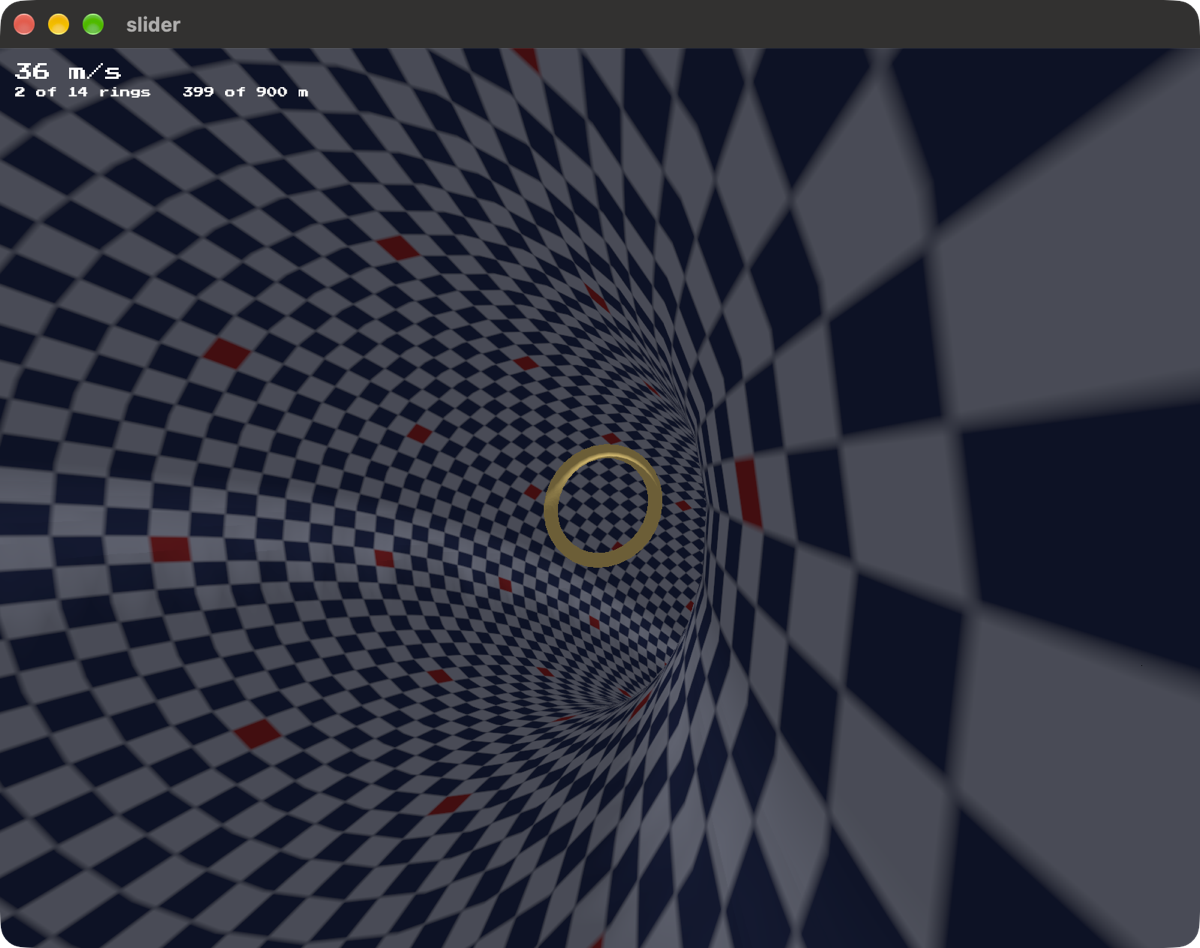
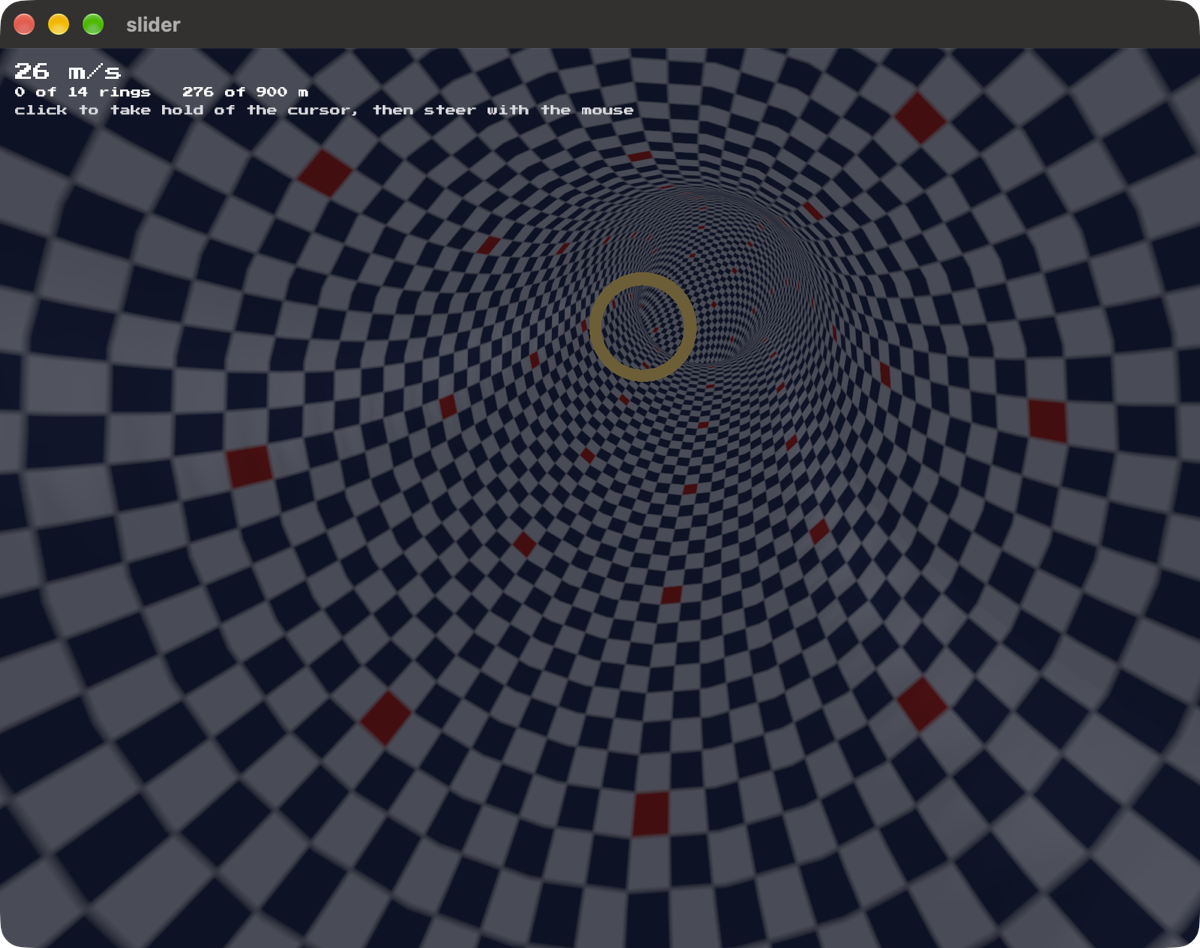
Fly in before the camera looks
Takes --screenshot, which flies two hundred and seventy five metres on the first frame and holds there, so the tunnel is bending and a ring is hanging ahead.

All of it on one frame rather than over twelve real seconds, because the shutter is on a timer. Ring n sits at (n + 1) of fifteen along the nine hundred metres, so stopping anywhere else puts one either just behind or a long way ahead: three seconds was a checkered pipe, eleven was three metres past the fourth ring looking at nothing.

diff --git a/src/slider_game.rs b/src/slider_game.rs
@@ -33,11 +33,33 @@ pub struct SliderGame {
     tube: Option<MeshId>,
     ring: Option<MeshId>,
     checker: Option<TextureId>,
+    /// Whether this run is only here to be photographed, and how long it has
+    /// been flying. See `refresh-screenshots` in the project above.
+    ///
+    /// The opening frame is the mouth of the tunnel, straight and empty. The
+    /// picture wants to be inside it, far enough in for the tunnel to be
+    /// bending and for a ring to be hanging in the middle distance.
+    staged: bool,
+    flown: f32,
 }
 
 impl SliderGame {
+    /// How far in the staged shot is taken, in seconds of flying.
+    ///
+    /// Ring n sits at (n + 1) of fifteen along the nine hundred metres, so
+    /// stopping anywhere puts one either just behind or a long way ahead.
+    /// Three seconds was seventy metres, inside the tunnel and short of the
+    /// first bend. Eleven was two hundred and forty six, which is three metres
+    /// past the fourth ring and looking at nothing.
+    ///
+    /// This is about two hundred and seventy five: the tunnel is bending and
+    /// the ring at three hundred is hanging ahead.
+    const FLOWN_FOR: f32 = 12.3;
+
     pub fn new() -> Self {
         Self {
+            staged: crate::staged(),
+            flown: 0.0,
             run: Run::new(),
             ship: Ship::new(),
             input: Input::new(),
@@ -179,7 +201,24 @@ impl Game for SliderGame {
         text_renderer: &mut TextRenderer,
         _sound_system: &SoundSystem,
     ) {
-        let dt = dt.min(MAX_DELTA_TIME);
+        let mut dt = dt.min(MAX_DELTA_TIME);
+
+        // flies itself in far enough for the tunnel to be bending and a ring
+        // to be hanging ahead, then holds still by having no more time pass
+        //
+        // All of it on the first frame rather than over eleven real seconds,
+        // because the shutter is on a timer and will not wait for the view.
+        if self.staged {
+            if self.flown == 0.0 {
+                let step = 1.0 / 60.0;
+                while self.flown < Self::FLOWN_FOR && self.run.is_flying() {
+                    let was = self.ship.update(self.input.steer, step);
+                    self.run.tick(step, was, &mut self.ship);
+                    self.flown += step;
+                }
+            }
+            dt = 0.0;
+        }
 
         if self.input.toggle_cursor {
             self.want_cursor_locked = !self.cursor_locked;

diff --git a/src/main.rs b/src/main.rs
@@ -9,6 +9,12 @@ mod tunnel;
 use blitzkit::start;
 use slider_game::SliderGame;
 
+/// Whether this run is only here to be photographed, for `refresh-screenshots`
+/// in the project above.
+pub fn staged() -> bool {
+    std::env::args().any(|arg| arg == "--screenshot")
+}
+
 fn main() {
     start("slider", Box::new(SliderGame::new()));
 }
